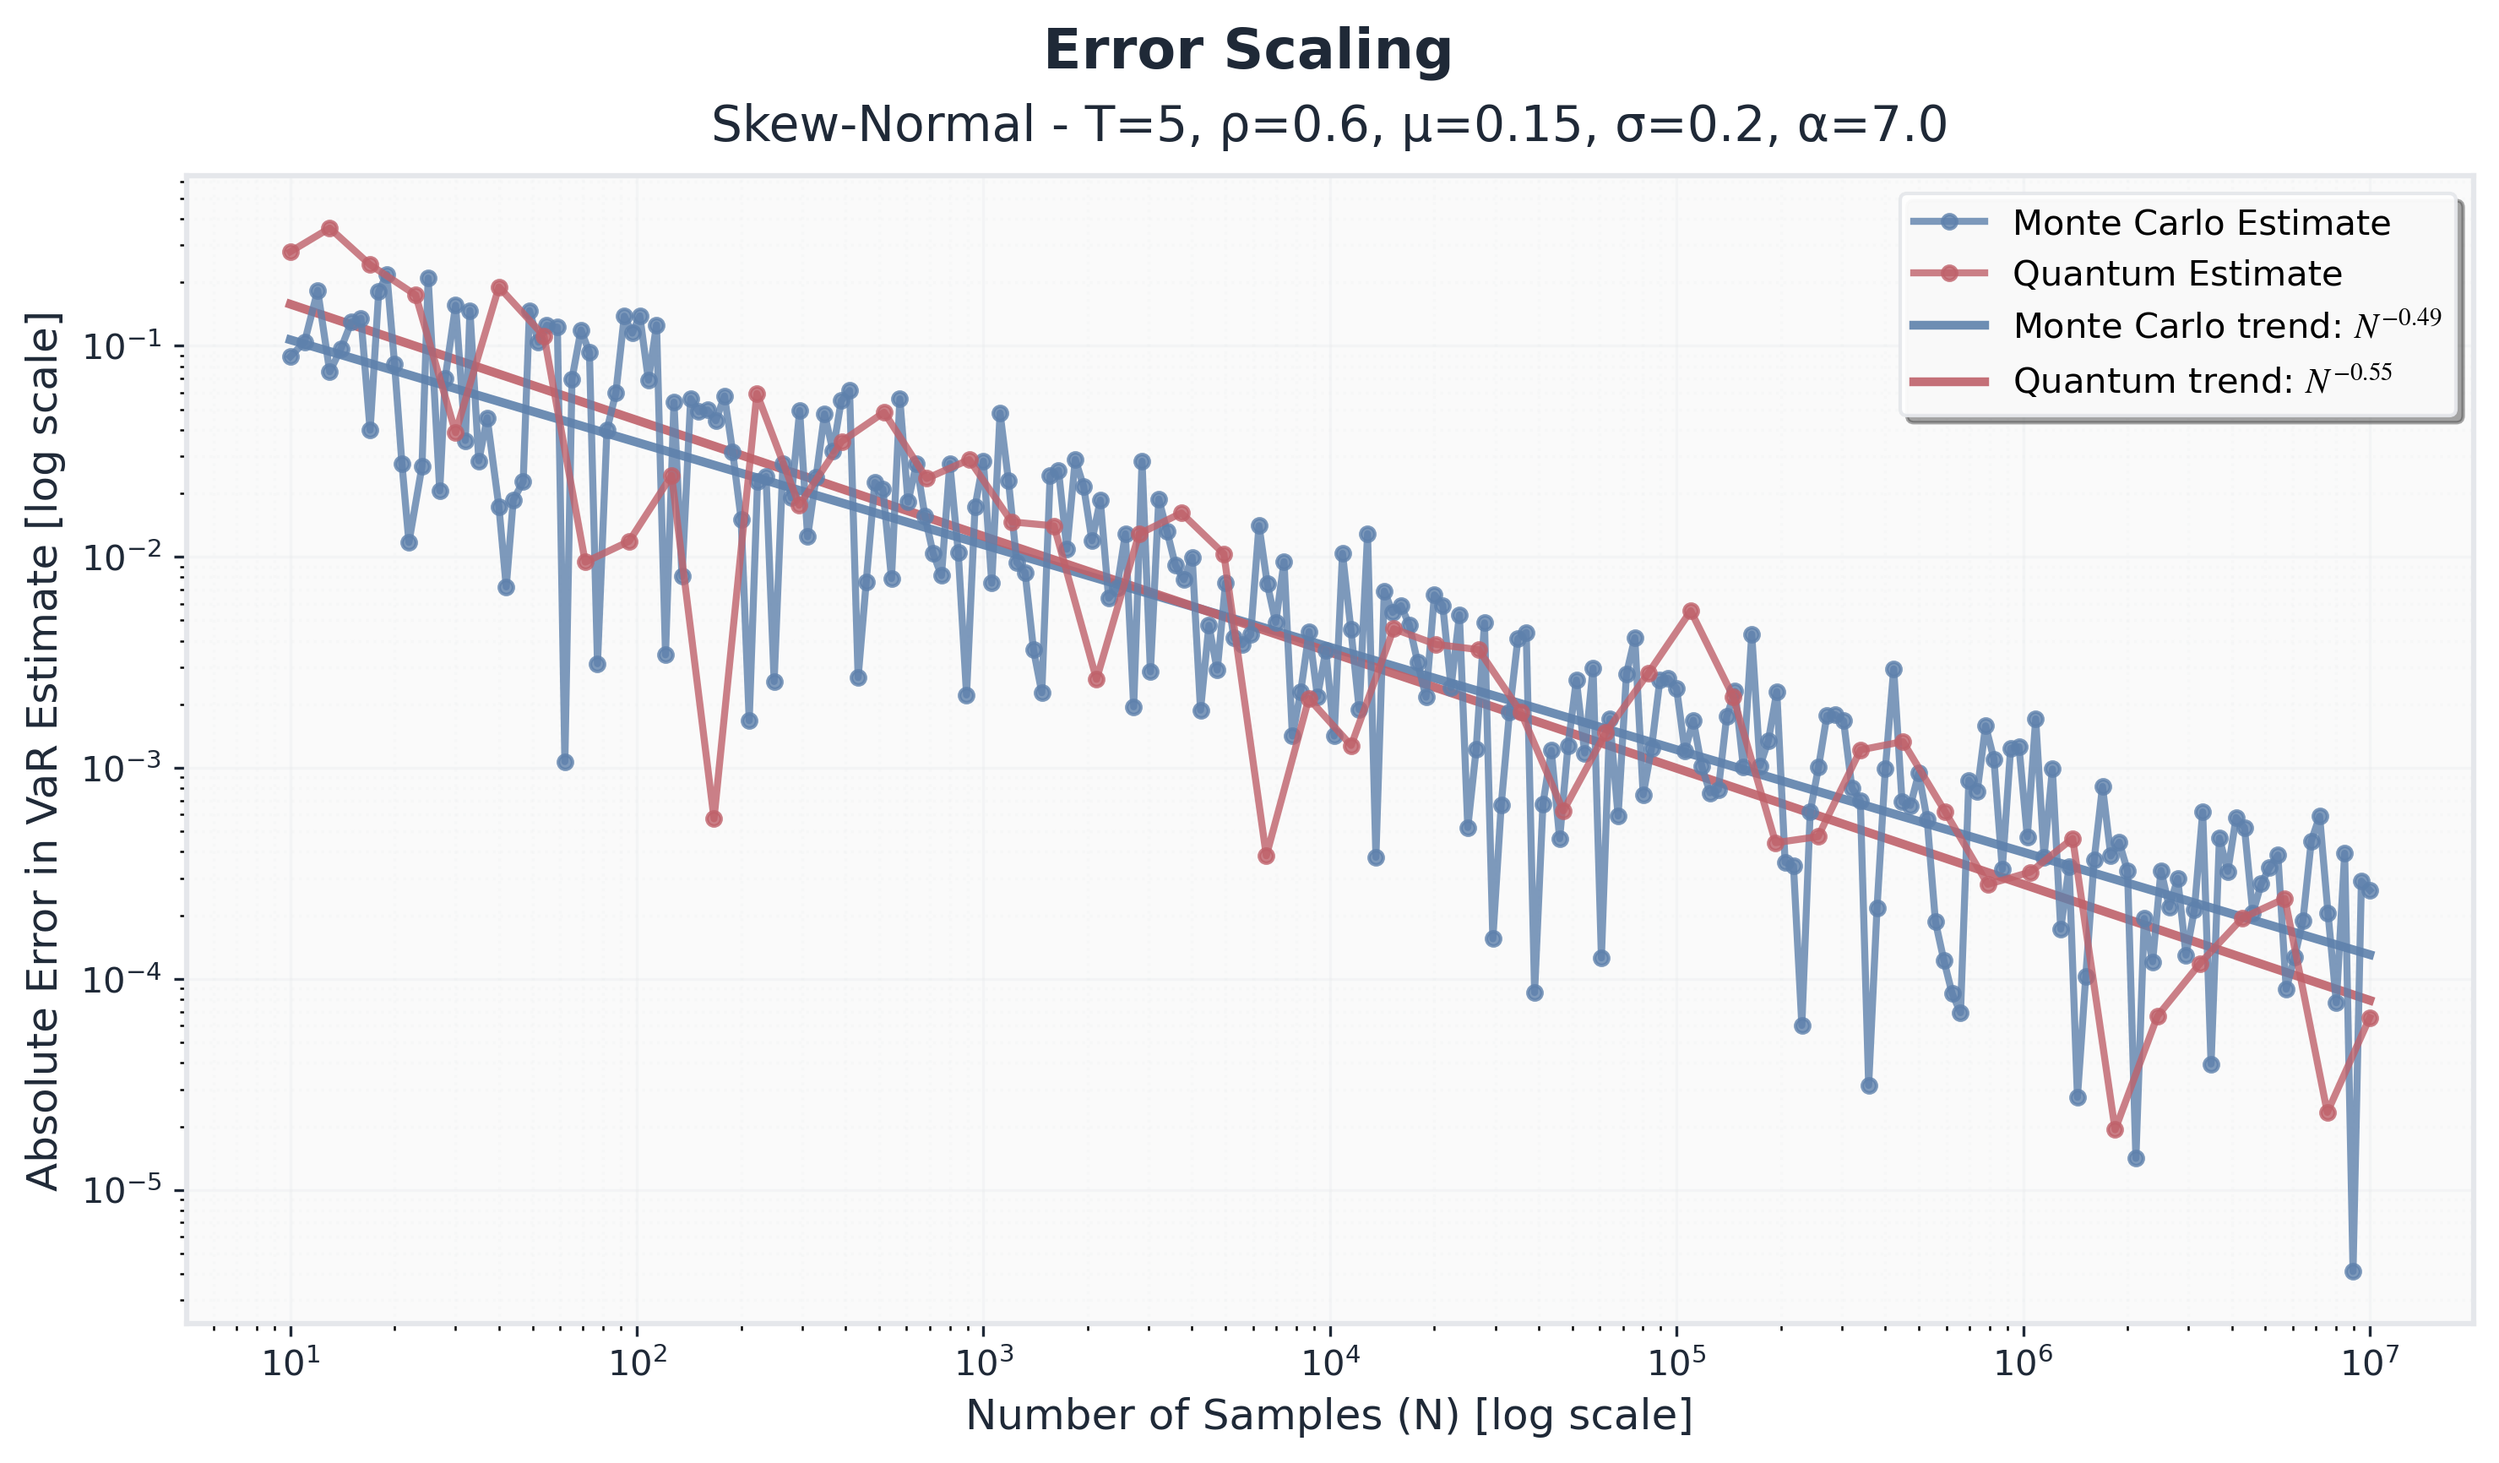
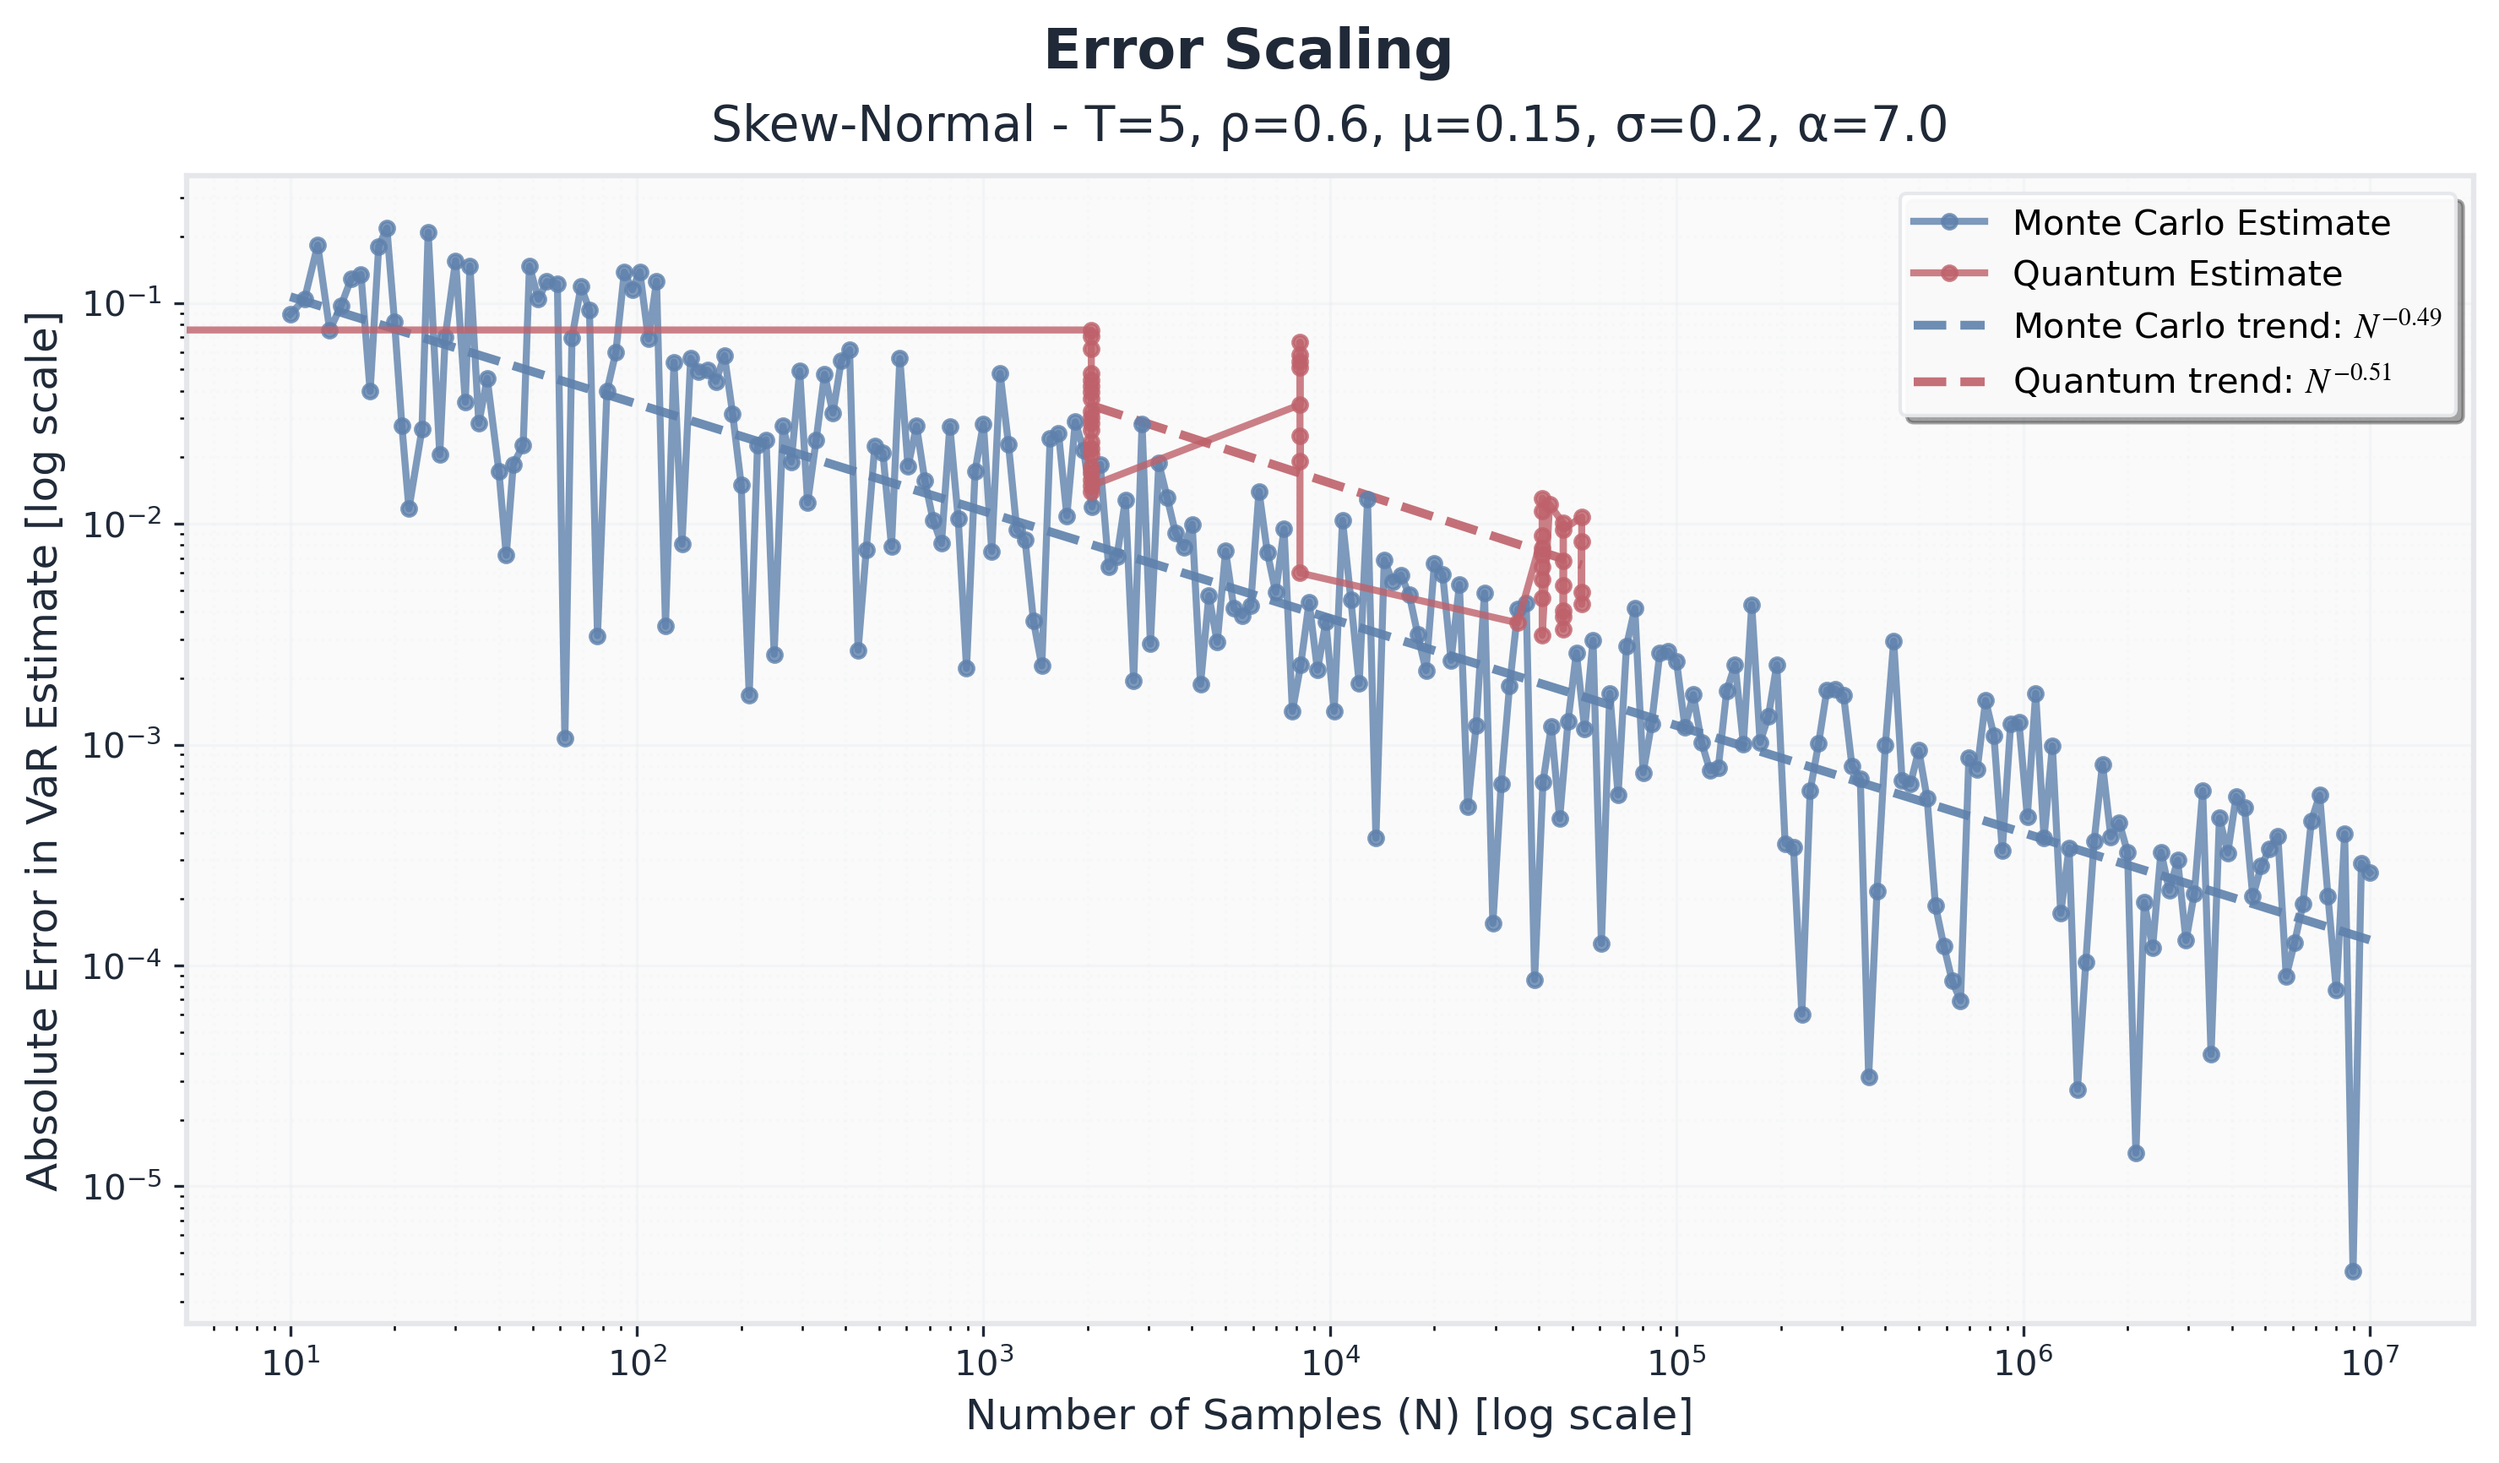
trying to run it with quantum data, need to bypass all the ckecks :(

diff --git a/graphs/n_vs_epsilon_graph.py b/graphs/n_vs_epsilon_graph.py
@@ -56,35 +56,46 @@ COLOR_QC = '#bf616a'
 # ]
 
 CSV_INPUT1 = "data/monte_carlo_naive.csv"
-CSV_INPUT2 = "data/monte_carlo_naive2.csv"
+CSV_INPUT2 = "data/iqae_converted.csv"
 OUTPUT = "output/n_vs_epsilon.png"
 
 results_mc = pd.read_csv(CSV_INPUT1)
 results_qc = pd.read_csv(CSV_INPUT2)
 
 # Ensure all data uses the same distribution parameters
-params = results_mc.iloc[0][["mu", "sigma", "confidence_level", "T", "dist", "df", "skew_alpha", "rho"]]
-for col in params.index:
-	assert all(results_mc[col] == params[col]), f"Mismatch in MC data for {col}"
-	assert all(results_qc[col] == params[col]), f"Mismatch in QC data for {col}"
+# params = results_mc.iloc[0][["mu", "sigma", "confidence_level", "T", "dist", "df", "skew_alpha", "rho"]]
+# for col in params.index:
+# 	assert all(results_mc[col] == params[col]), f"Mismatch in MC data for {col}"
+# 	assert all(results_qc[col] == params[col]), f"Mismatch in QC data for {col}"
     
-# Ensure theoretical VaR is consistent
-# To be consistent it must be exactly the same within one file, but may differ by 2% between files
-theoretical_var_mc = results_mc.iloc[0]["VaR_theoretical"]
-theoretical_var_qc = results_qc.iloc[0]["VaR_theoretical"]
-assert all(results_mc["VaR_theoretical"] == theoretical_var_mc), "Mismatch in MC theoretical VaR"
-assert all(results_qc["VaR_theoretical"] == theoretical_var_qc), "Mismatch in QC theoretical VaR"
-theoretical_var = (theoretical_var_mc + theoretical_var_qc) / 2
-assert abs(theoretical_var_mc - theoretical_var_qc) / theoretical_var < 0.02, "Theoretical VaR differs by more than 2% between MC and QC"
+# # Ensure theoretical VaR is consistent
+# # To be consistent it must be exactly the same within one file, but may differ by 2% between files
+# theoretical_var_mc = results_mc.iloc[0]["VaR_theoretical"]
+# theoretical_var_qc = results_qc.iloc[0]["VaR_theoretical"]
+# assert all(results_mc["VaR_theoretical"] == theoretical_var_mc), "Mismatch in MC theoretical VaR"
+# assert all(results_qc["VaR_theoretical"] == theoretical_var_qc), "Mismatch in QC theoretical VaR"
+# theoretical_var = (theoretical_var_mc + theoretical_var_qc) / 2
+# assert abs(theoretical_var_mc - theoretical_var_qc) / theoretical_var < 0.02, "Theoretical VaR differs by more than 2% between MC and QC"
 
-mu = params["mu"]
-sigma = params["sigma"]
-confidence_level = params["confidence_level"]
-T = params["T"]
-dist = params["dist"]
-df = params["df"]
-skew_alpha = params["skew_alpha"]
-rho = params["rho"]
+# mu = params["mu"]
+# sigma = params["sigma"]
+# confidence_level = params["confidence_level"]
+# T = params["T"]
+# dist = params["dist"]
+# df = params["df"]
+# skew_alpha = params["skew_alpha"]
+# rho = params["rho"]
+
+mu = 0.15                      # Mean daily return (15%)
+sigma = 0.20                   # Daily volatility (20%)
+confidence_level = 0.95        # VaR confidence level
+
+# Multi-day and distribution settings
+T = 5                          # Number of days for multi-day VaR
+dist = "skewnorm"              # Distribution: "gaussian", "student-t", "skewnorm"
+df = 3                         # Degrees of freedom for Student-t
+skew_alpha = 7.0               # Skew parameter for skew-normal
+rho = 0.6                      # AR(1) correlation coefficient
 
 # Sort by N
 results_mc = results_mc.sort_values(by="N")
@@ -117,7 +128,7 @@ def add_trend_line(ax, N, eps, color, label_prefix):
 
     ax.plot(
         N_fit, eps_fit,
-        linestyle='-',
+        linestyle='--',
         linewidth=2.5,
         color=color,
         alpha=0.9,
